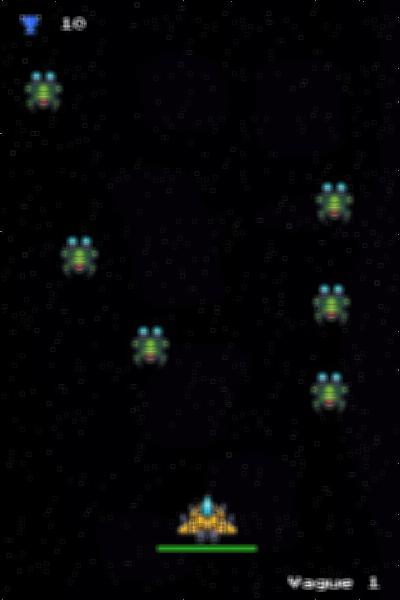
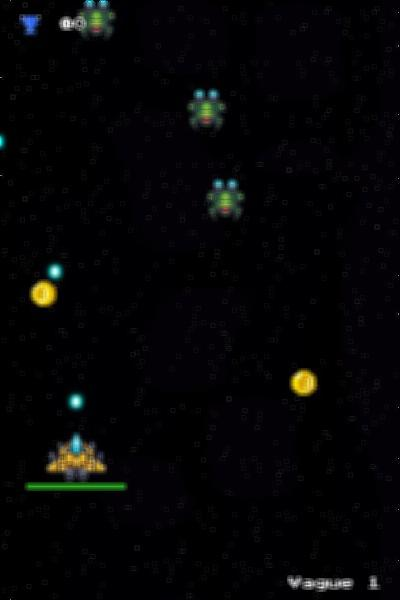
ajout compteur pièces

diff --git a/main.py b/main.py
@@ -130,7 +130,7 @@ class Monster(pygame.sprite.Sprite):
         self.delay = 90
         self.delay_spawn = 1000
         self.pos = Vector2(randint(-15,360),-10)
-        self.velocity = Vector2(0,110)
+        self.velocity = Vector2(0,90)
  
     def damage(self, amount) :
         self.health -= amount
@@ -673,7 +673,7 @@ def jeu():
 
     #Chargement image pour score et bestscore#
     prec_score = pygame.image.load('assets/icon/prec_score.png')
-    
+    money = pygame.image.load('assets/coin/coin_01.png')
     # Boucle jeu #
     running = True
     k = 0
@@ -686,7 +686,6 @@ def jeu():
     count = 0
     pause = 0
     last_seconde2 = pygame.time.get_ticks()
-
 
     #freeze_BUTTON = Button(image=flake, pos=(50, 560), text_input="      ", font=get_font(12), base_color="White", hovering_color="Green")
 
@@ -741,8 +740,11 @@ def jeu():
 
         #Affichage du score #
         prec_score = pygame.transform.scale(prec_score,(20,20))
+        money = pygame.transform.scale(money,(20,20)) 
         Score_TEXT = get_font(13).render((str(game.player.score)), True, color )
         Score_RECT = Score_TEXT.get_rect(topleft=(60, 18))
+        Money_TEXT = get_font(13).render((str(game.player.money)), True, color )
+        Money_RECT = Score_TEXT.get_rect(topleft=(60, 50))
 
         #Affichage du score #
         Vague_TEXT = get_font(13).render(("Vague "+str(vague)), True, color )
@@ -756,8 +758,10 @@ def jeu():
             screen.blit(Record_TEXT,Record_RECT)
 
         screen.blit(prec_score,(20,15))
+        screen.blit(money,(20,45))
         screen.blit(Score_TEXT, Score_RECT)
         screen.blit(Vague_TEXT, Vague_RECT)
+        screen.blit(Money_TEXT, Money_RECT)
         
 
         #récupérer tout les projectiles du joueur #
